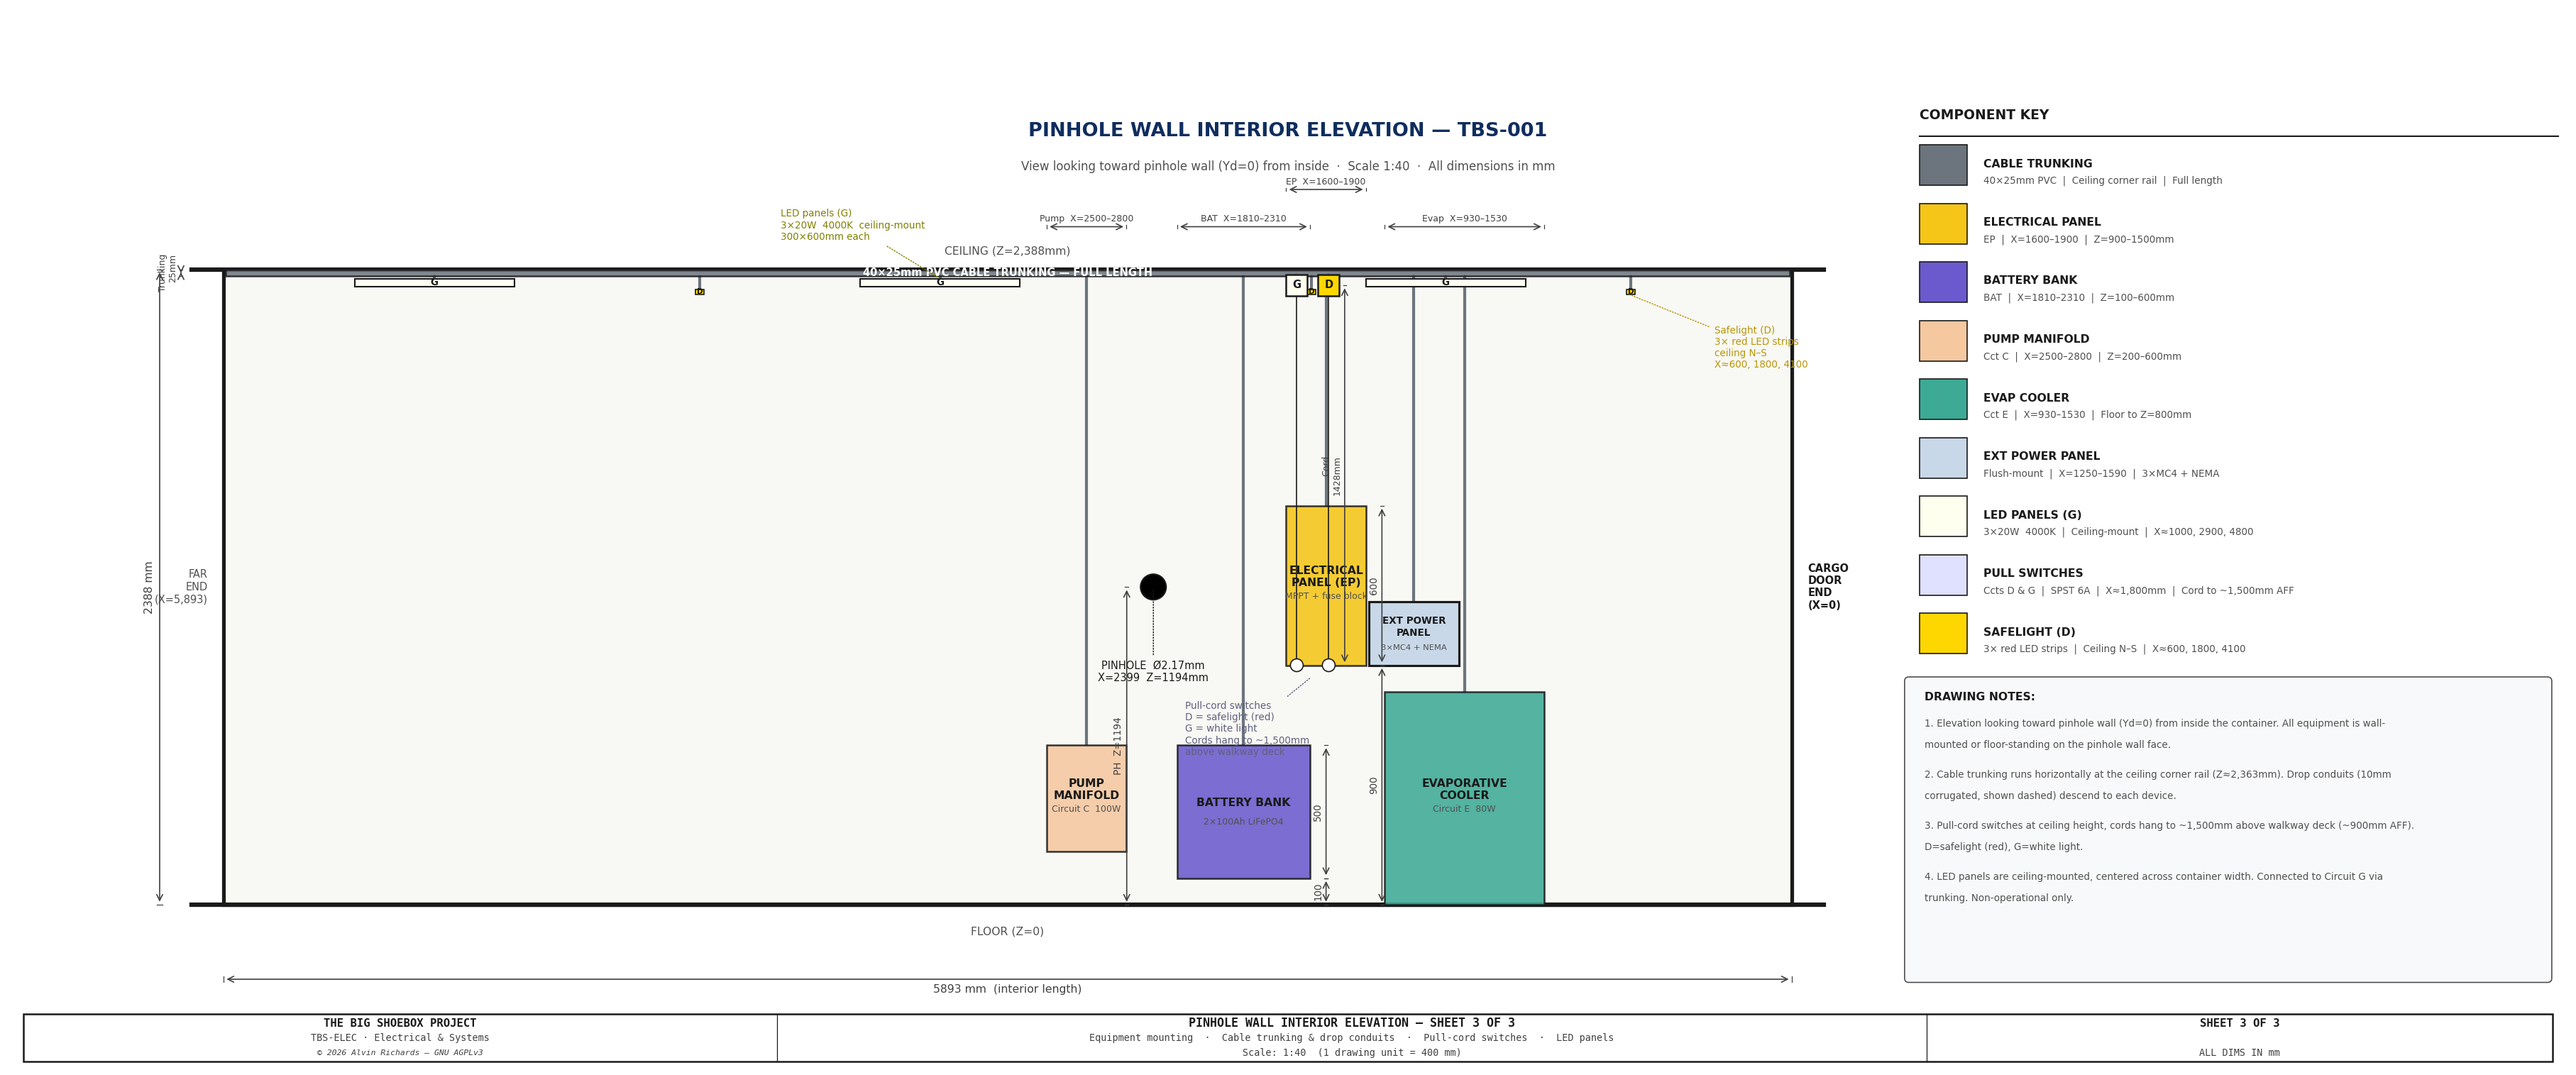
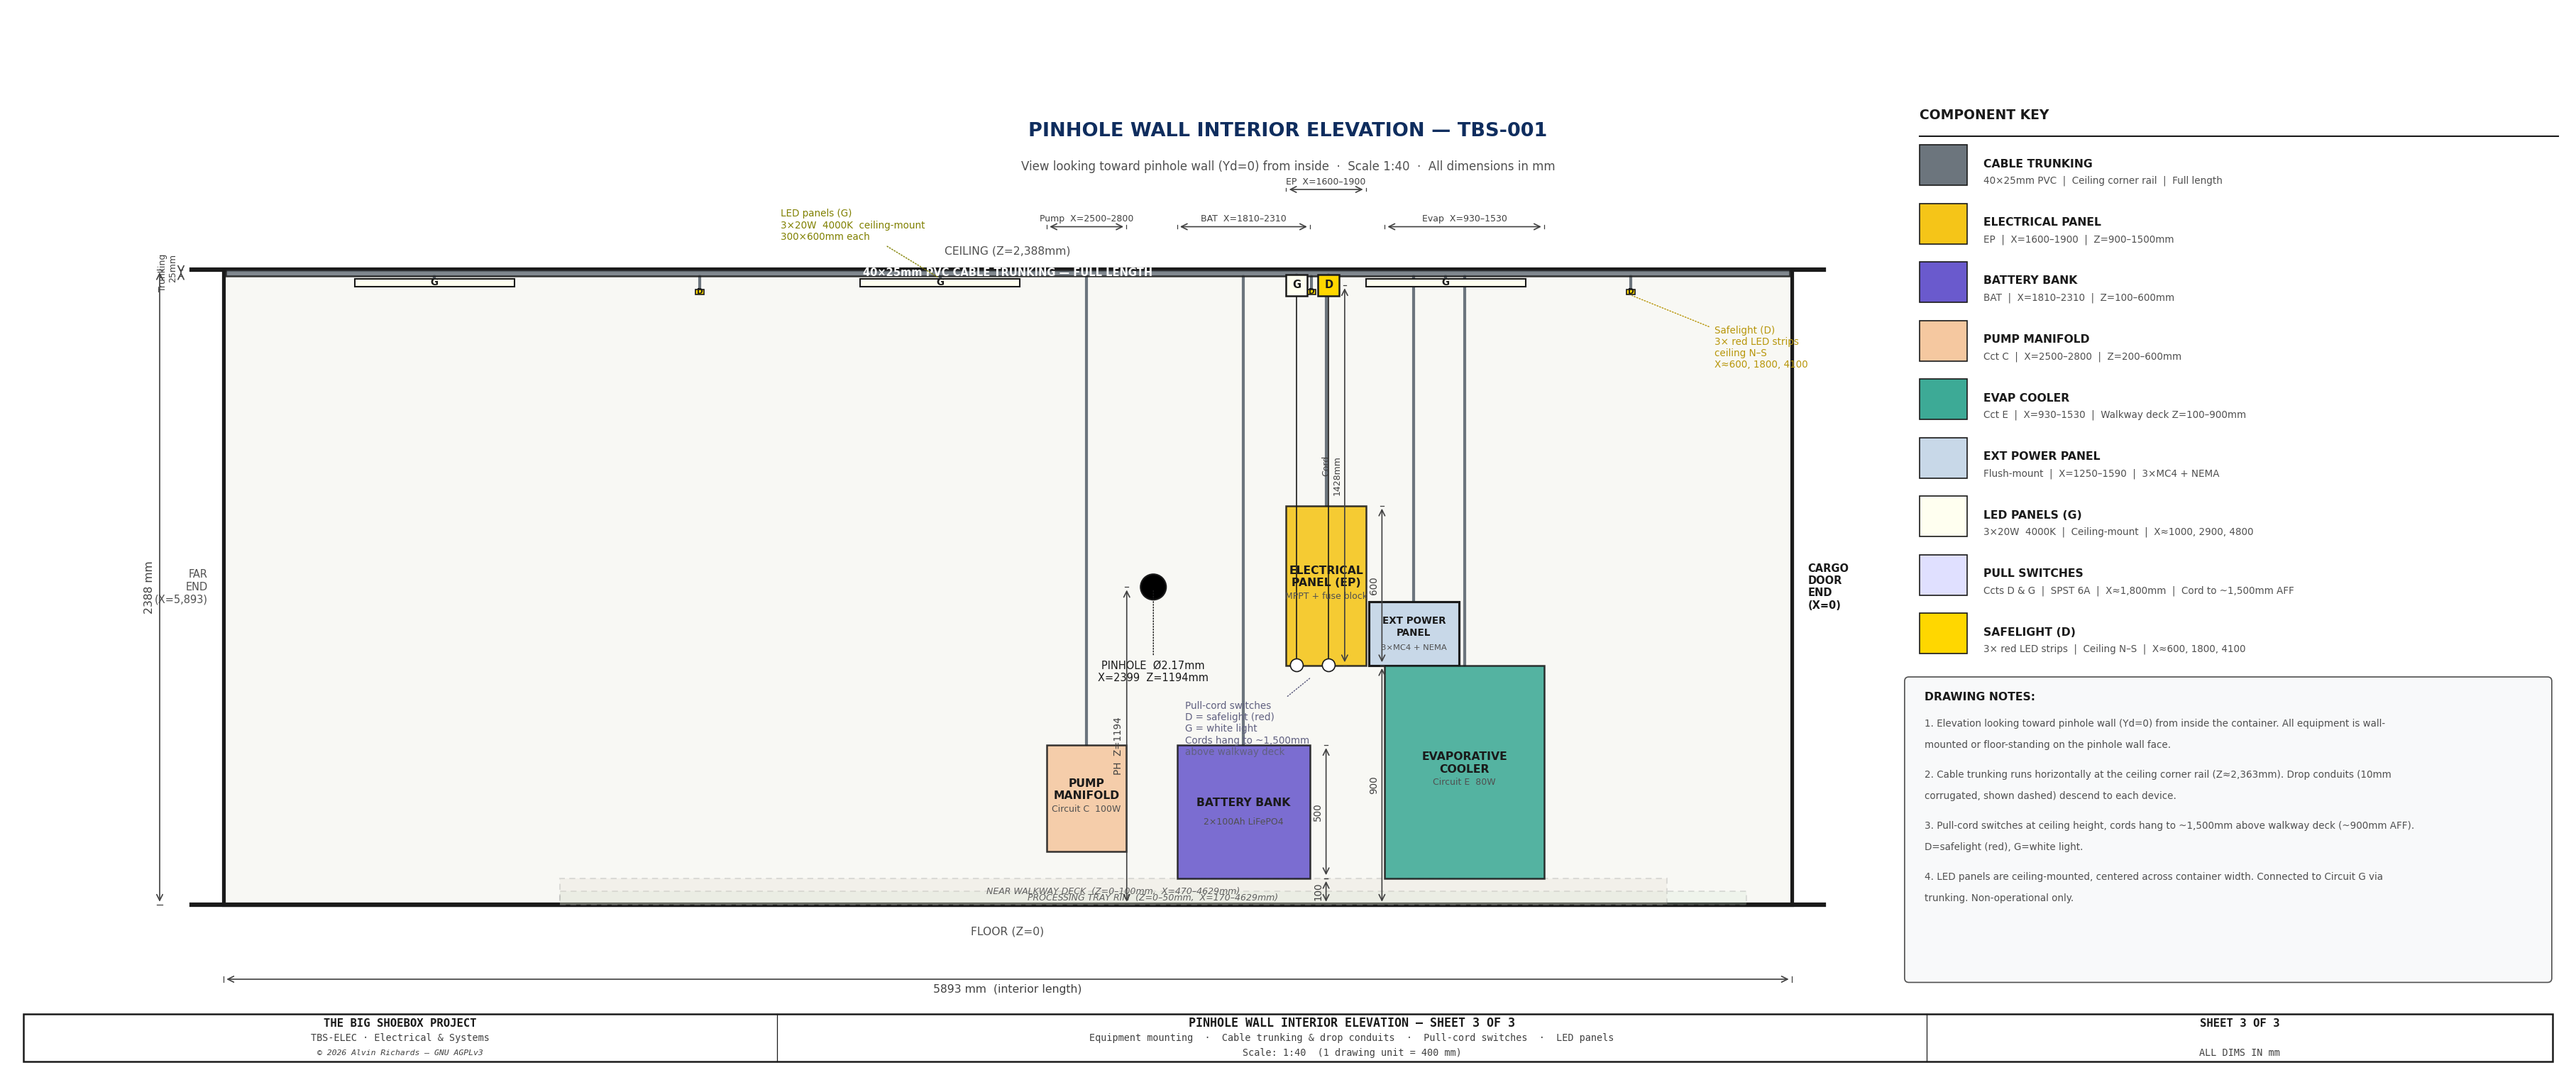
Sheet 3: raise evap cooler to walkway deck (Z=100mm), add ghost processing tray and walkway outlines

diff --git a/generate_electrical_diagram.py b/generate_electrical_diagram.py
@@ -961,8 +961,10 @@ def draw_sheet3():
         EP_X, EP_W, EP_H_LO, EP_H_HI,
         BA_X, BA_W, BA_H_LO, BA_H_HI,
         PUMP_X, PUMP_W, PUMP_H_LO, PUMP_H_HI,
-        EVAP_X, EVAP_W, EVAP_H,
+        EVAP_X, EVAP_W, EVAP_H, RAIL_OFF,
         PWR_PANEL_X, PWR_PANEL_W, PWR_PANEL_H,
+        PROC_TRAY_X_L, PROC_TRAY_X_R, PROC_TRAY_RIM,
+        WALKWAY_W, WALKWAY_H, WALKWAY_LEFT_X,
         DIAGRAMS_DIR, svg_path, C_LT_DRUM,
     )
 
@@ -1031,6 +1033,37 @@ def draw_sheet3():
             ha="left", va="center", fontsize=7.0, color=C_OUT,
             fontweight="bold")
 
+    # ── Ghost: processing tray rim ──────────────────────────────────────────
+    GHOST_ALPHA = 0.22
+    GHOST_EC = "#808080"
+    GHOST_LS = (0, (4, 3))
+    # Tray rim: X=170–4629, Z=0–50mm
+    tray_x_l = wx(PROC_TRAY_X_L)    # mirrored: right in drawing
+    tray_x_r = wx(PROC_TRAY_X_R)    # mirrored: left in drawing
+    tray_w = tray_x_l - tray_x_r    # positive because mirrored
+    tray_h = PROC_TRAY_RIM * S
+    ax.add_patch(mpatches.Rectangle((tray_x_r, OY), tray_w, tray_h,
+                 fc="#D0E8D0", ec=GHOST_EC, lw=1.0, ls=GHOST_LS,
+                 alpha=GHOST_ALPHA, zorder=3))
+    ax.text((tray_x_l + tray_x_r) / 2, OY + tray_h / 2,
+            f"PROCESSING TRAY RIM  (Z=0–{PROC_TRAY_RIM}mm,  X={PROC_TRAY_X_L}–{PROC_TRAY_X_R}mm)",
+            ha="center", va="center", fontsize=6.0, color="#606060",
+            style="italic", zorder=4)
+
+    # ── Ghost: near walkway deck ─────────────────────────────────────────────
+    # Near walkway runs along pinhole wall, X=470–4629, deck at Z=100mm
+    wk_x_l = wx(WALKWAY_LEFT_X + WALKWAY_W)   # walkway starts at X=470 (left butt joint)
+    wk_x_r = wx(PROC_TRAY_X_R)                # ends at tray right edge
+    wk_w = wk_x_l - wk_x_r
+    wk_h = WALKWAY_H * S
+    ax.add_patch(mpatches.Rectangle((wk_x_r, OY), wk_w, wk_h,
+                 fc="#E0D8C8", ec=GHOST_EC, lw=1.0, ls=GHOST_LS,
+                 alpha=GHOST_ALPHA, zorder=3))
+    ax.text((wk_x_l + wk_x_r) / 2, OY + wk_h / 2,
+            f"NEAR WALKWAY DECK  (Z=0–{WALKWAY_H}mm,  X={WALKWAY_LEFT_X + WALKWAY_W}–{PROC_TRAY_X_R}mm)",
+            ha="center", va="center", fontsize=6.0, color="#606060",
+            style="italic", zorder=4)
+
     # ── Cable trunking — horizontal at ceiling corner ─────────────────────────
     TK_H_MM = 25    # trunking height (mm)
     TK_W_MM = 40    # trunking depth (mm) — shown as height on elevation
@@ -1085,8 +1118,8 @@ def draw_sheet3():
     ax.plot([pp_x + pp_w / 2, pp_x + pp_w / 2], [pp_y + pp_h, tk_y],
             color=C_PIPE, lw=2.0, solid_capstyle="round", zorder=4)
 
-    # ── Evaporative cooler (floor-standing) ───────────────────────────────────
-    wall_equip(EVAP_X, 0, EVAP_H, EVAP_W,
+    # ── Evaporative cooler (on walkway deck, raised above tray rim) ─────────
+    wall_equip(EVAP_X, RAIL_OFF, RAIL_OFF + EVAP_H, EVAP_W,
                "EVAPORATIVE\nCOOLER", "Circuit E  80W", C_EVAP)
 
     # ── Electrical panel (wall-mounted) ───────────────────────────────────────
@@ -1265,7 +1298,7 @@ def draw_sheet3():
         (C_ELEC,    "ELECTRICAL PANEL",  f"EP  |  X={EP_X}–{EP_X+EP_W}  |  Z={EP_H_LO}–{EP_H_HI}mm"),
         (C_BATT,    "BATTERY BANK",      f"BAT  |  X={BA_X}–{BA_X+BA_W}  |  Z={BA_H_LO}–{BA_H_HI}mm"),
         ("#F5C8A0", "PUMP MANIFOLD",     f"Cct C  |  X={PUMP_X}–{PUMP_X+PUMP_W}  |  Z={PUMP_H_LO}–{PUMP_H_HI}mm"),
-        (C_EVAP,    "EVAP COOLER",       f"Cct E  |  X={EVAP_X}–{EVAP_X+EVAP_W}  |  Floor to Z={EVAP_H}mm"),
+        (C_EVAP,    "EVAP COOLER",       f"Cct E  |  X={EVAP_X}–{EVAP_X+EVAP_W}  |  Walkway deck Z={RAIL_OFF}–{RAIL_OFF+EVAP_H}mm"),
         (C_ALUM,    "EXT POWER PANEL",   f"Flush-mount  |  X={PWR_PANEL_X}–{PWR_PANEL_X+PWR_PANEL_W}  |  3×MC4 + NEMA"),
         ("#FFFFF0", "LED PANELS (G)",    "3×20W  4000K  |  Ceiling-mount  |  X≈1000, 2900, 4800"),
         ("#E0E0FF", "PULL SWITCHES",     "Ccts D & G  |  SPST 6A  |  X≈1,800mm  |  Cord to ~1,500mm AFF"),
